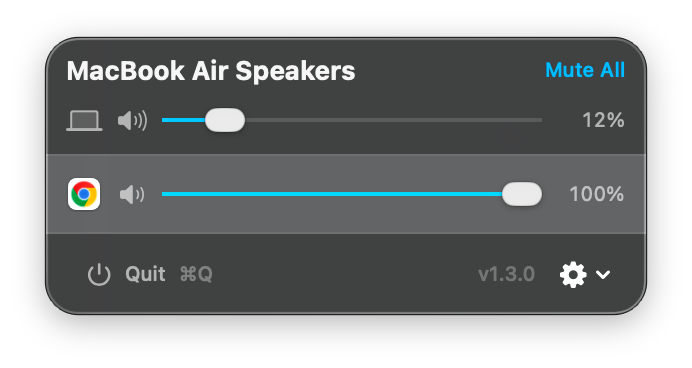
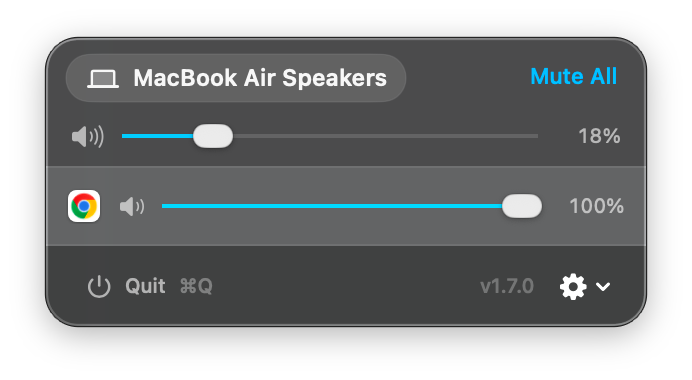
docs: update README with Bluetooth permission requirements and revised macOS system settings instructions

diff --git a/README.md b/README.md
@@ -80,7 +80,7 @@ If installing on a different Mac without an official Apple Developer ID certific
 
 | Control / Action | Description |
 | :--- | :--- |
-| **Output Selector** | Click top-left dropdown (e.g. *MacBook Air Speakers*) to switch active audio output device. |
+| **Output Selector** | Click the device chip in the header (e.g. *MacBook Air Speakers*) to switch active audio output device. |
 | **Hardware Icon** | Dynamic indicator displaying device type (`laptopcomputer`, `airpodspro`, `headphones`, `tv`, `desktopcomputer`). |
 | **Mute All / Unmute All** | Header button to instantly mute or restore volume across all active applications. |
 | **Master Volume Row** | Drag master slider or click speaker icon to mute/unmute global system audio. |
@@ -93,7 +93,7 @@ If installing on a different Mac without an official Apple Developer ID certific
 
 ## 🔒 Permissions & Privacy Guide
 
-MySound requires specific macOS permissions to intercept per-application audio streams. All audio processing is handled **100% locally on your Mac**.
+MySound requires specific macOS permissions to intercept per-application audio streams and detect output hardware. All audio processing is handled **100% locally on your Mac**.
 
 ### 1. System Audio Recording / Microphone Access
 MySound uses Apple's CoreAudio process tap framework (`CATapDescription`) to intercept app audio streams.
@@ -103,11 +103,25 @@ MySound uses Apple's CoreAudio process tap framework (`CATapDescription`) to int
 
 **How to grant permission:**
 1. MySound features a built-in **Permission Guidance Banner**. Click **Open System Settings** directly inside the app popover.
-2. In **System Settings** > **Privacy & Security** > **Screen & System Audio Recording** (or **Microphone** on macOS Sonoma), ensure **MySound** is toggled **ON**.
+2. In **System Settings** > **Privacy & Security**:
+   - **macOS 15 (Sequoia)**: Navigate to **System Audio Recording Only** (or **Screen & System Audio Recording**) and toggle **MySound** **ON**.
+   - **macOS 14 (Sonoma)**: Navigate to **Screen & System Audio Recording** (or **Microphone**) and toggle **MySound** **ON**.
 
 ---
 
-### 2. Opening for the First Time (macOS Gatekeeper)
+### 2. Bluetooth Access (New in v1.7.0)
+MySound dynamically scans and monitors connected audio hardware—such as AirPods, wireless headphones, and Bluetooth speakers—to display matching hardware icons and enable 1-click device switching.
+
+> [!NOTE]
+> **Why Bluetooth is requested**: macOS requires Bluetooth authorization for applications that discover and interact with peripheral audio devices. MySound only uses this to enumerate connected Bluetooth audio endpoints.
+
+**How to grant permission:**
+1. macOS will prompt you automatically when MySound accesses output audio devices. Click **Allow**.
+2. Or open **System Settings** > **Privacy & Security** > **Bluetooth** and ensure **MySound** is toggled **ON**.
+
+---
+
+### 3. Opening for the First Time (macOS Gatekeeper)
 If installing via manual DMG download, macOS Gatekeeper may show a warning:
 `"MySound cannot be opened because it is from an unidentified developer."`
 
@@ -119,7 +133,7 @@ If installing via manual DMG download, macOS Gatekeeper may show a warning:
 
 ---
 
-### 3. Launch at Login Permission
+### 4. Launch at Login Permission (Optional)
 When you enable **Launch at Login** in the gear menu, MySound registers a login item via Apple's `SMAppService` framework.
 
 **How to manage:**
@@ -141,7 +155,8 @@ When you enable **Launch at Login** in the gear menu, MySound registers a login 
 
 - **App fails to control audio or open on another Mac?** Pre-built binaries are signed with an ad-hoc identity. On other Macs, Gatekeeper or TCC permission policies may block process tapping. Solve this by cloning the repository on that Mac and running `./build.sh` (Option 3).
 - **An app isn't appearing in the list?** MySound automatically detects applications when they start playing audio. Start sound playback in the app (e.g. play a song on Spotify or video on YouTube) and it will appear within 2 seconds.
-- **Volume slider doesn't change sound?** Ensure MySound has been granted Microphone/Audio Recording permissions under **System Settings > Privacy & Security > Microphone**.
+- **Volume slider doesn't change sound?** Ensure MySound has been granted System Audio Recording / Microphone permissions under **System Settings > Privacy & Security > System Audio Recording Only** (macOS 15+) or **Screen & System Audio Recording** (macOS 14+).
+- **Bluetooth headphones or speakers not appearing in output list?** Ensure MySound has Bluetooth permission granted under **System Settings > Privacy & Security > Bluetooth**.
 - **Audio distortion or lag?** MySound automatically matches your default audio output sample rate. Try restarting MySound or toggling your output device from the header menu.
 
 ---
@@ -150,5 +165,3 @@ When you enable **Launch at Login** in the gear menu, MySound registers a login 
 
 This project is licensed under the MIT License - see the [LICENSE](LICENSE) file for details.
 
----
-*Developed with ❤ by Xuanmn*
